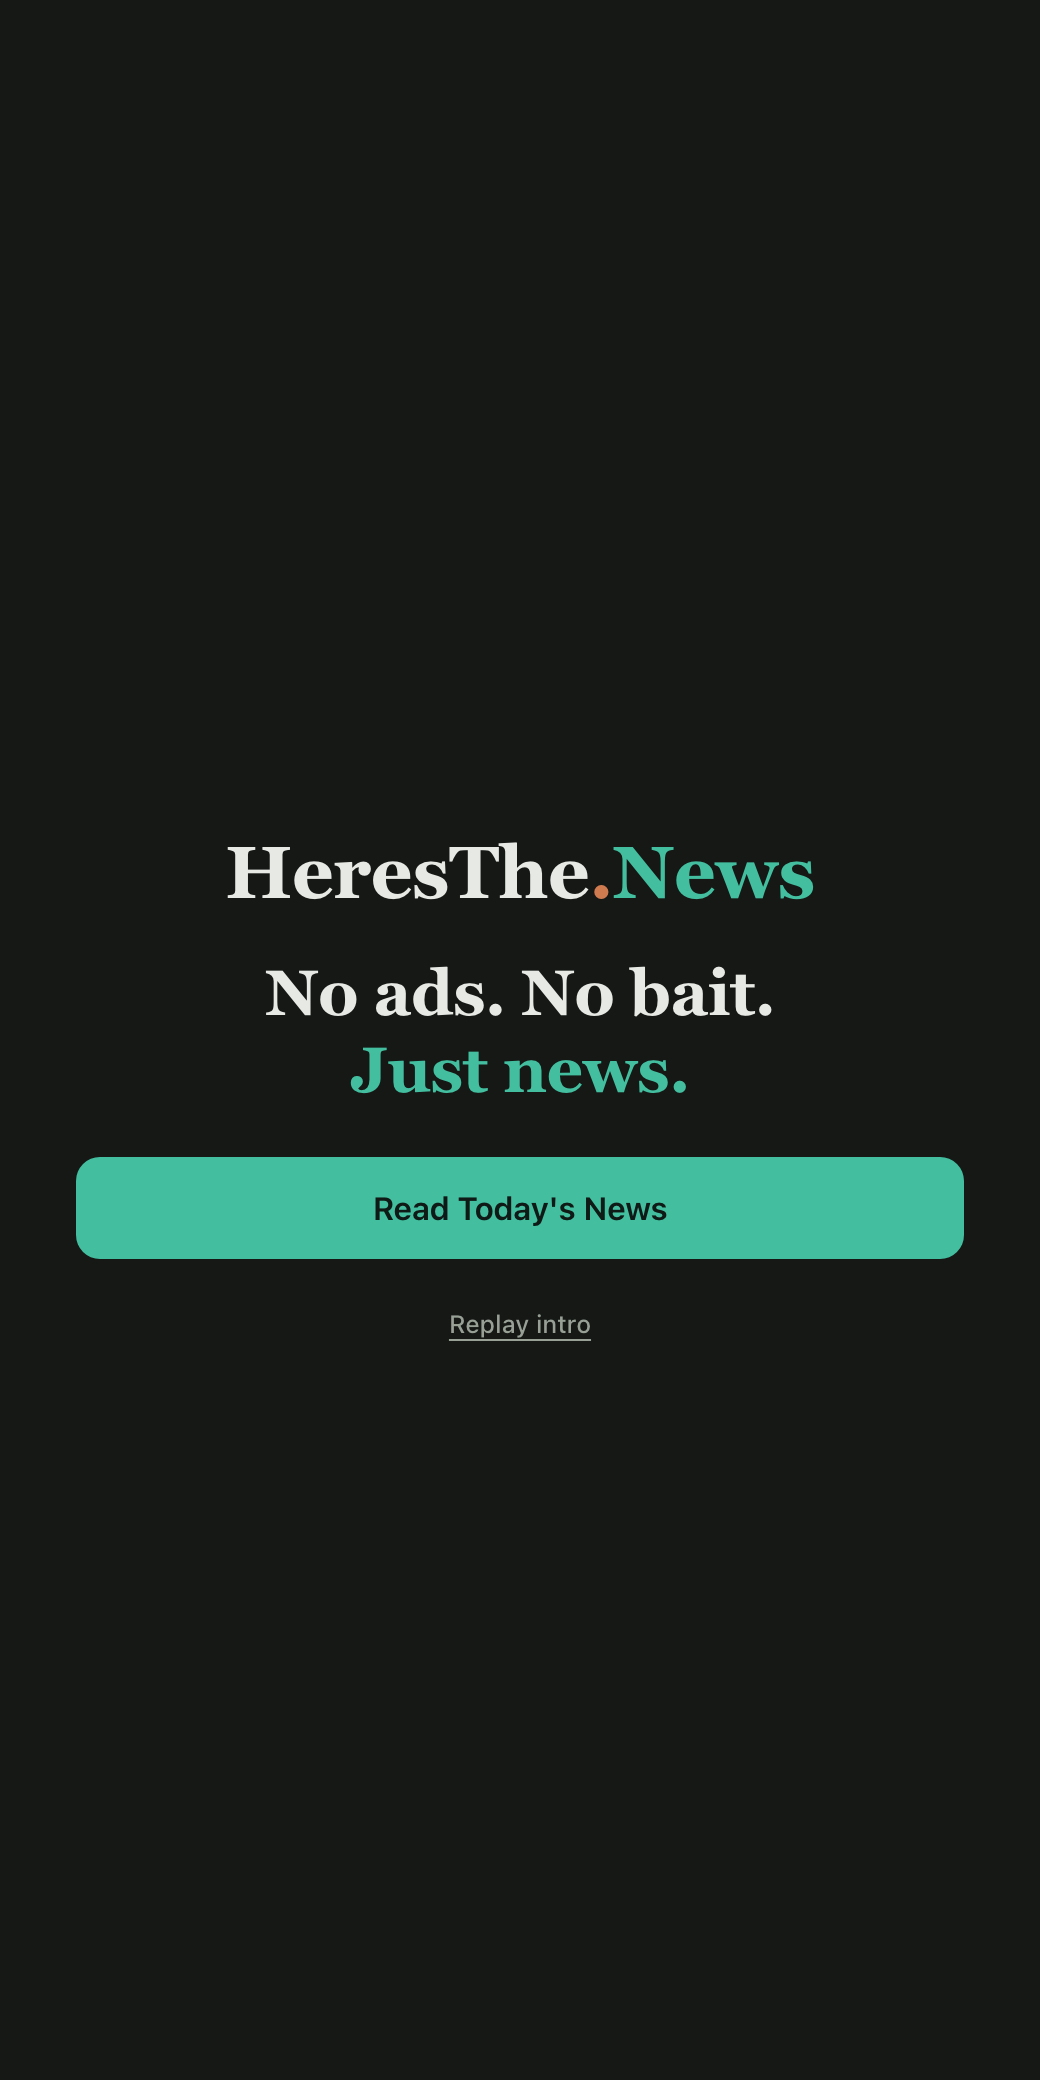
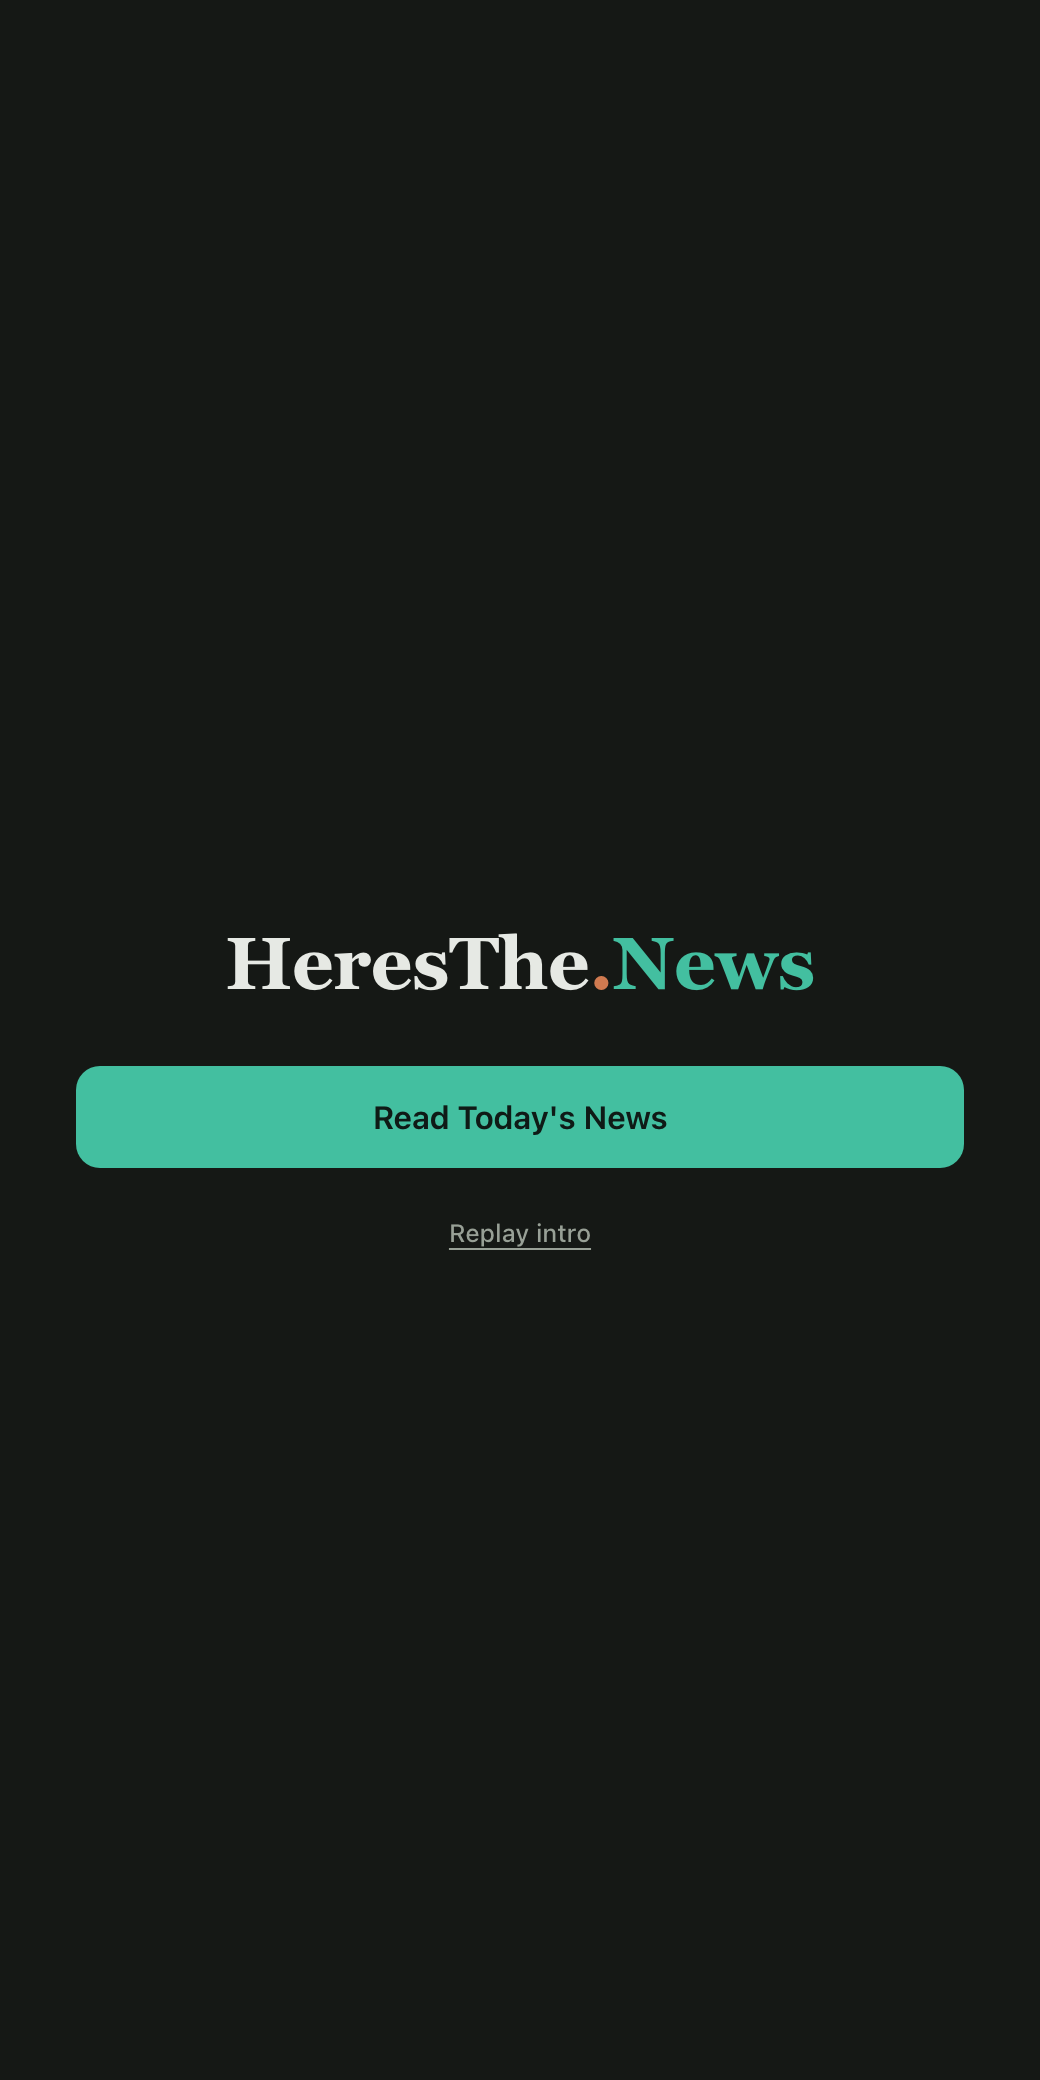
Landing ending: motto builds left to right on one line, then the wordmark replaces it; screenshots and README updated

Changed region(s): [[0.0615, 0.4062, 0.9538, 0.6562]]

diff --git a/index.html b/index.html
@@ -4,7 +4,7 @@
 <meta charset="utf-8">
 <meta name="viewport" content="width=device-width,initial-scale=1">
 <title>HeresThe.News</title>
-<link rel="stylesheet" href="style.css?v=28">
+<link rel="stylesheet" href="style.css?v=29">
 </head>
 <body>
 <div class="app landing">
@@ -43,8 +43,10 @@
 
   <!-- The landing itself: what stays on screen -->
   <main class="rest" id="rest">
-    <p class="brand-big">HeresThe<span class="dot">.</span><em>News</em></p>
-    <h1 class="motto"><span class="m1">No ads.</span> <span class="m2">No bait.</span><br><span class="m3">Just news.</span></h1>
+    <div class="swap">
+      <h1 class="motto"><span class="m1">No ads.</span> <span class="m2">No bait.</span> <span class="m3">Just news.</span></h1>
+      <p class="brand-big">HeresThe<span class="dot">.</span><em>News</em></p>
+    </div>
     <div class="actions">
       <a class="btn btn-primary" href="topics.html">Read Today's News</a>
     </div>
@@ -79,12 +81,15 @@
     // 6. the scene gives way to the landing
     .to(stage, {autoAlpha:0, y:-16, duration:.9}, "+=2.4")
     .to(".intro-head", {autoAlpha:0, duration:.5}, "<")
-    .to(rest, {autoAlpha:1, duration:.7}, "<.5")
-    .from(".brand-big", {y:16, autoAlpha:0, duration:.8}, "<")
-    .from(".m1", {y:12, autoAlpha:0, duration:.6}, "+=.6")
-    .from(".m2", {y:12, autoAlpha:0, duration:.6}, "+=.5")
-    .from(".m3", {y:12, autoAlpha:0, duration:.6}, "+=.5")
-    .from([".actions", ".replay"], {y:14, autoAlpha:0, duration:.7}, "+=.6");
+    .to(rest, {autoAlpha:1, duration:.4}, "<.5")
+    // the motto, one phrase at a time, left to right
+    .from(".m1", {y:12, autoAlpha:0, duration:.5}, "+=.2")
+    .from(".m2", {y:12, autoAlpha:0, duration:.5}, "+=.45")
+    .from(".m3", {y:12, autoAlpha:0, duration:.5}, "+=.45")
+    // then the wordmark takes its place
+    .to(".motto", {autoAlpha:0, y:-10, duration:.5}, "+=1.1")
+    .from(".brand-big", {y:12, autoAlpha:0, duration:.7}, "-=.15")
+    .from([".actions", ".replay"], {y:14, autoAlpha:0, duration:.6}, "+=.4");
 
   tl.timeScale(1.5);
   window.__introTimeline = tl;

diff --git a/style.css b/style.css
@@ -132,7 +132,9 @@ p{margin:0 0 14px;color:var(--ink-2)}
 .brand-big{margin:0;font-family:var(--serif);font-weight:700;font-size:2.3rem;letter-spacing:-.01em;color:var(--ink)}
 .brand-big em{font-style:normal;color:var(--green)}
 .brand-big .dot{color:var(--clay)}
-.motto{margin:0;font-family:var(--serif);font-weight:600;font-size:2rem;line-height:1.2;color:var(--ink)}
+.swap{display:grid;width:100%}
+.swap>*{grid-area:1/1;align-self:center}
+.motto{margin:0;font-family:var(--serif);font-weight:600;font-size:1.55rem;line-height:1.2;color:var(--ink);white-space:nowrap}
 .motto span{display:inline-block}
 .motto .m3{color:var(--green)}
 .lede{margin:0 0 10px;color:var(--ink-2);font-size:1rem}

diff --git a/topics.html b/topics.html
@@ -4,7 +4,7 @@
 <meta charset="utf-8">
 <meta name="viewport" content="width=device-width,initial-scale=1">
 <title>HeresThe.News — Your topics</title>
-<link rel="stylesheet" href="style.css?v=28">
+<link rel="stylesheet" href="style.css?v=29">
 </head>
 <body>
 <svg width="0" height="0" style="position:absolute" aria-hidden="true">

diff --git a/paper.html b/paper.html
@@ -4,7 +4,7 @@
 <meta charset="utf-8">
 <meta name="viewport" content="width=device-width,initial-scale=1">
 <title>HeresThe.News — Today's paper</title>
-<link rel="stylesheet" href="style.css?v=28">
+<link rel="stylesheet" href="style.css?v=29">
 </head>
 <body>
 <div class="app">

diff --git a/README.md b/README.md
@@ -21,7 +21,7 @@
 
 | # | Screen | Its one job | Why it earned a slot | Design question it helps answer |
 |---|---|---|---|---|
-| 1 | **Start** | Signal the value and the one action. A short intro plays once: a phone lock screen, a HeresThe.News notification, a zoom into the app, one headline whose facts arrive labeled *verified / reported / disputed* with their sources. It resolves into the wordmark, **"No ads. No bait. Just news."** revealed one line at a time, and a single button, **Read Today's News**. | The live site's landing is the feed itself, so a first-timer never sees what makes it different. This screen shows the mechanism in ten seconds instead of describing it. | Does a first-time visitor understand what the site does and what to tap before reading anything? |
+| 1 | **Start** | Signal the value and the one action. A short intro plays once: a phone lock screen, a HeresThe.News notification, a zoom into the app, one headline whose facts arrive labeled *verified / reported / disputed* with their sources. It resolves into **"No ads. No bait. Just news."** revealed one phrase at a time on a single line, which the wordmark then replaces, followed by a single button, **Read Today's News**. | The live site's landing is the feed itself, so a first-timer never sees what makes it different. This screen shows the mechanism in ten seconds instead of describing it. | Does a first-time visitor understand what the site does and what to tap before reading anything? |
 | 2 | **Your topics** | Let the reader shape the paper. The live site's own words, *"What news do you want to see?"*, a list with line icons, **Show my paper** disabled until at least one pick, *No preference, show me everything* as the escape, and a live line, *"World · Tech first, then everything else"*, that updates as topics are toggled. Chosen topics are **prioritised, not filtered**: they go to the top and the rest of the paper still follows. | The live site has this feature but buries it after the first section; first-timers never find it. Showing it as the first step makes the reader's control over the paper discoverable, and prioritising rather than filtering keeps the promise that you still get *all* the news. | Do readers recognise the list as *their* control over the paper, and does the disabled button read as a constraint rather than a bug? |
 | 3 | **Today's paper** | Show the product working. Every category of the Aug 3 edition, with the reader's chosen topics first under *Your topics* and the rest under *Everything else*. The site's real story component is open on one story: *Why it matters*, five facts with status chips, and every source named with its lean tag. Ends with **"That's everything for today."** | It is the capability itself, not a picture of it. Every element on it exists on heresthe.news today, and it shows the effect of the choice made on screen 2. | When a reader opens a story, do the labels and named sources read as "this has been checked" without explanation? And do they notice their topics came first? |
 
@@ -43,9 +43,9 @@ The flow is Start → Your topics → Today's paper. Every screen returns to Sta
 
 I opened the live URL on my phone as if I had never seen it.
 
-**Does the landing signal the primary capability and fundamental value at first glance, before reading?** Partly. The value lands before reading: a dark, ad-free screen, a wordmark, three short lines. The capability lands through the intro, which is watched rather than read, and through the button, *Read Today's News*. A visitor who skips the intro gets value from the motto and capability from the button, which is the minimum the screen has to do.
+**Does the landing signal the primary capability and fundamental value at first glance, before reading?** Partly. The value lands before reading: a dark, ad-free screen, a wordmark, three short lines. The capability lands through the intro, which is watched rather than read, and through the button, *Read Today's News*. A visitor who skips the intro sees the wordmark and the button only; the motto lives inside the intro, so the value claim depends on the intro being watched. That is a deliberate trade for a calmer resting screen, and it is the first thing I would test with the five-second question in section 3.
 
-**Does every element on the landing earn its place?** Now, yes. The first AI output did not: it had a three-line headline, a lede sentence, a row of three reassurance chips, a footer line about the publish time, and two buttons of near-equal weight. That is *signifier interference* in the deck's terms. Nothing was dominant, so nothing signaled. The resting landing now has four things: wordmark, motto, one button, and a demoted *Replay intro* link.
+**Does every element on the landing earn its place?** Now, yes. The first AI output did not: it had a three-line headline, a lede sentence, a row of three reassurance chips, a footer line about the publish time, and two buttons of near-equal weight. That is *signifier interference* in the deck's terms. Nothing was dominant, so nothing signaled. The resting landing now has three things: wordmark, one button, and a demoted *Replay intro* link.
 
 **What belongs together on each screen, and which Gestalt principle communicates it?**
 - *Proximity*: on Today's paper, the facts sit directly under "The facts" and each source line sits directly under its fact, so fact and evidence read as one unit. The reader's chosen categories sit together under one *Your topics* divider.
@@ -71,7 +71,7 @@ I opened the live URL on my phone as if I had never seen it.
 | First AI output ([commit `d8bd24c`](https://github.com/kdavis5111/htn-first-three-screens/commit/d8bd24c)) | Final |
 |---|---|
 | ![before](docs/before/index.png) | ![after](docs/after/index.png) |
-| Landing: eyebrow, three-line headline, lede, primary and secondary buttons, three reassurance chips, footer. Nothing dominant. | Landing after the intro: wordmark, motto, one button. The capability is shown by the intro (below), not described. |
+| Landing: eyebrow, three-line headline, lede, primary and secondary buttons, three reassurance chips, footer. Nothing dominant. | Landing after the intro: the wordmark and one button. The motto, *No ads. No bait. Just news.*, appears one phrase at a time just before the wordmark replaces it ([frame](docs/after/intro-motto.png)). |
 | ![before topics](docs/before/topics.png) | ![after topics](docs/after/topics.png) |
 | Topics: emoji icons, story counts on every row, helper paragraph, step label, and the choice *filtered* the paper. | Topics: line icons, one live line showing the effect, and the choice *prioritises* the paper instead of filtering it. |
 | ![intro lock screen](docs/after/intro-lockscreen.png) | ![intro app](docs/after/intro-app.png) |
